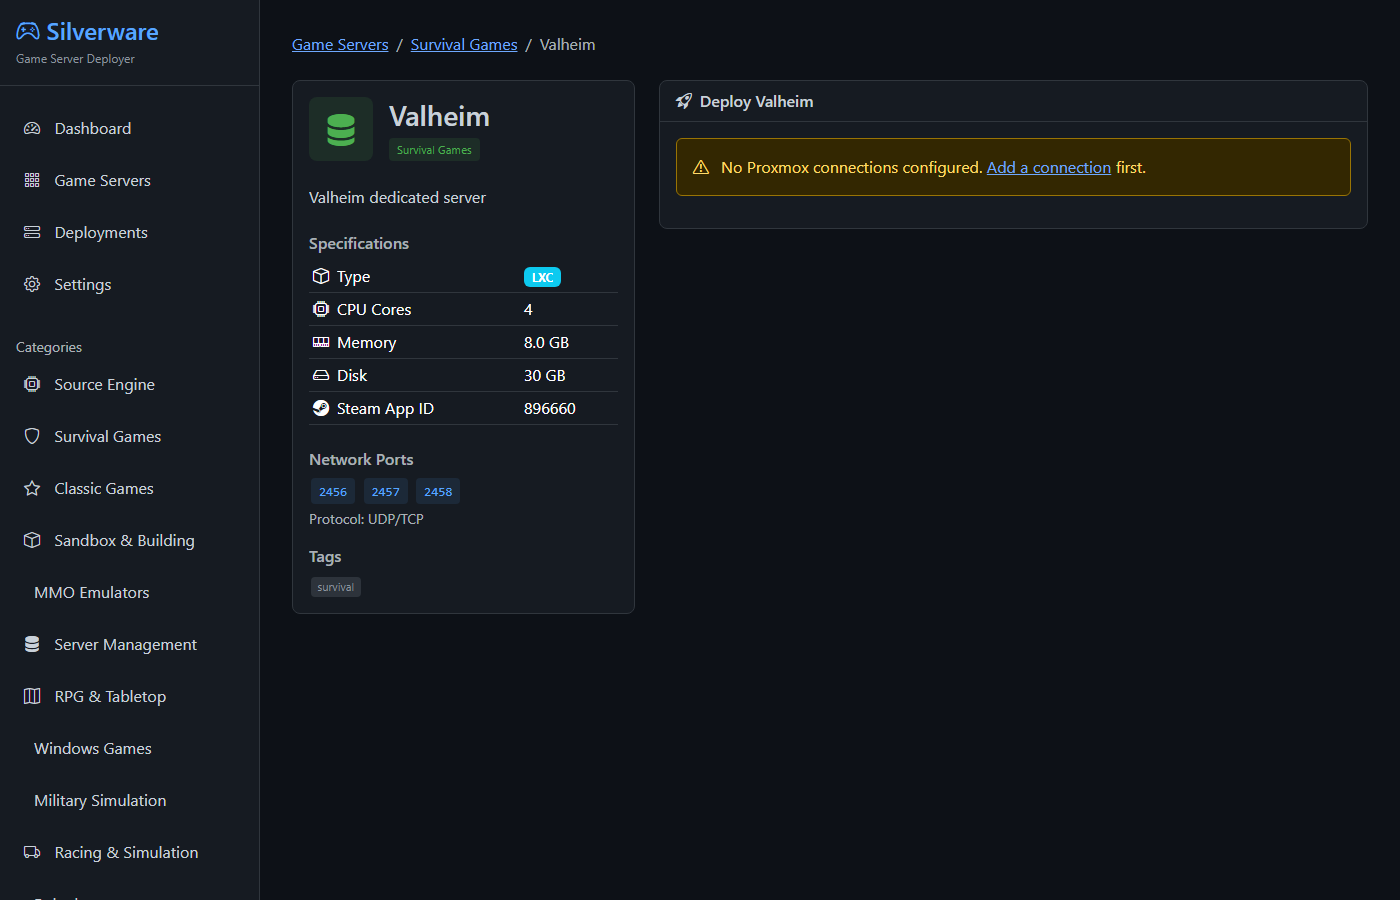
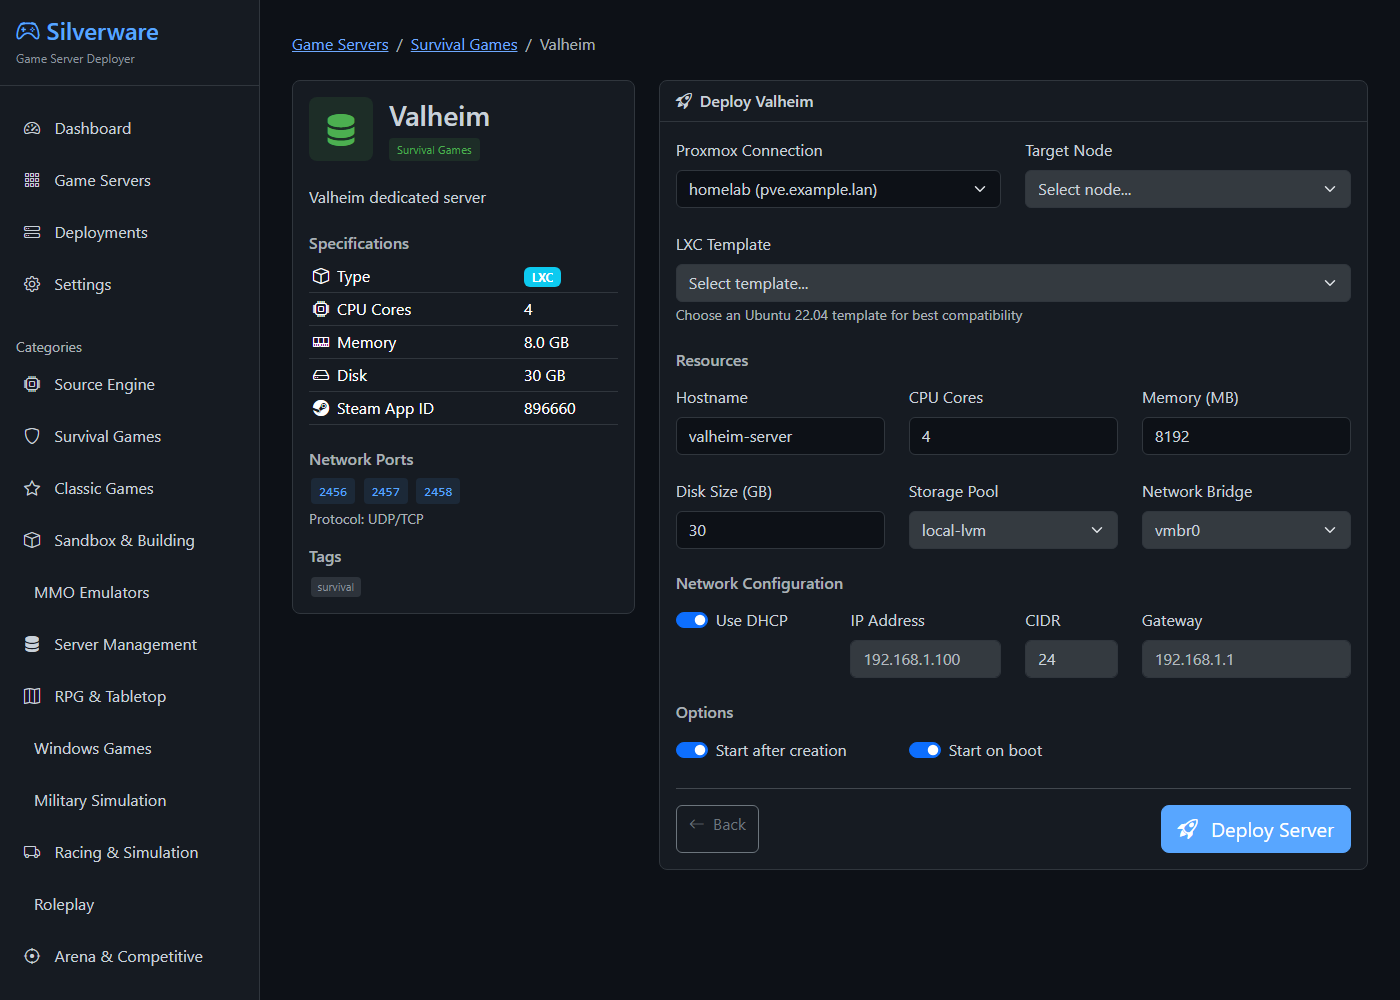
Slim the README and move the long setup guide to docs
The README is now a front page: what it is, status, four screenshots,
a short quick start and a short step-by-step, and a table of docs.
The full setup guide (expected output, usual mistakes, first deploy,
single-host and Terraform routes) moves to docs/getting-started.md and
the curl examples to docs/api.md. Adds a settings screenshot and
replaces the deploy screenshot with the filled-in deploy form.

diff --git a/README.md b/README.md
@@ -5,141 +5,73 @@ Terraform/Packer templates for running the same servers without it.
 
 ## Status
 
-**v0.1.0, alpha.** The web deployer's catalog lists 217 servers. 72 of them have an install script, so
-the deployer creates the container *and* installs the game. The other 145 get a container sized for the
-game and you install the game yourself. Every catalog entry deploys as an LXC container; VM deployment
-exists in the code but no catalog entry uses it yet. See [docs/games.md](docs/games.md) for which is which.
-
-The web UI has **no login**. Run it on a trusted network only; see [SECURITY.md](SECURITY.md).
+**v0.1.0, alpha.** 217 games in the catalog; 72 install themselves after deploy, the rest get a
+container sized for the game ([full list](docs/games.md)). LXC only for now. The web UI has **no
+login**, so keep it on a trusted network ([SECURITY.md](SECURITY.md)).
 
 ## Screenshots
 
-| Dashboard | Deploying a server |
+| Dashboard | Game catalog |
 |---|---|
-| ![Dashboard](docs/screenshots/dashboard.png) | ![Deploy page](docs/screenshots/deploy.png) |
-
-![Game catalog](docs/screenshots/servers.png)
+| ![Dashboard](docs/screenshots/dashboard.png) | ![Game catalog](docs/screenshots/servers.png) |
+| **Deploying a server** | **Proxmox connections** |
+| ![Deploy form](docs/screenshots/deploy.png) | ![Settings](docs/screenshots/settings.png) |
 
 ## Getting Started
 
-You need a Proxmox VE 7 or 8 host that you can reach on port 8006 (API) and port 22 (SSH; the deployer
-runs the install script inside the container through `pct exec`). You also need an LXC template on that
-host, for example Debian 12 or Ubuntu 22.04 (download it in the Proxmox UI: *local → CT Templates →
-Templates*).
+You need a Proxmox VE 7 or 8 host reachable on ports 8006 and 22, with an LXC template downloaded.
 
-### Quick start (Docker)
+**Quick start (Docker):**
 
-1. Install [Docker Desktop](https://www.docker.com/products/docker-desktop) (Windows/macOS) or Docker
-   Engine (Linux), and start it.
-2. Download this repo ([zip](https://github.com/sp00nznet/gameservers/archive/refs/heads/main.zip)) and
-   unzip it.
-3. Start the deployer:
-   - **Windows:** double-click `proxmox-deployer\start.bat`.
-   - **Linux/macOS:** run `./proxmox-deployer/start.sh docker`.
-4. Open <http://localhost:5555>. You should see the dashboard above, with "217 Available Servers".
+1. Install and start [Docker Desktop](https://www.docker.com/products/docker-desktop).
+2. Download the [zip](https://github.com/sp00nznet/gameservers/archive/refs/heads/main.zip) and unzip it.
+3. Double-click `proxmox-deployer\start.bat` (Linux/macOS: `./proxmox-deployer/start.sh docker`).
+4. Open <http://localhost:5555>. The dashboard shows "217 Available Servers".
 
-The first start builds the image, which takes a minute or two. To stop it, run `stop.bat` or
-`docker compose down` in `proxmox-deployer/`.
-
-### Step by step (Python)
-
-Prerequisites: Python 3.10 or newer (the Docker image uses 3.11; the tests run on 3.13).
+**Step by step (Python 3.10+):**
 
 ```bash
 git clone https://github.com/sp00nznet/gameservers.git
 cd gameservers/proxmox-deployer
-python3 -m venv venv
-source venv/bin/activate          # Windows: venv\Scripts\activate
+python3 -m venv venv && source venv/bin/activate   # Windows: venv\Scripts\activate
 pip install -r requirements.txt
-python run.py
+python run.py                                      # → Running on http://127.0.0.1:5555
 ```
 
-Expected output:
-
-```
- * Serving Flask app 'app'
- * Debug mode: off
-WARNING: This is a development server. Do not use it in a production deployment. Use a production WSGI server instead.
- * Running on all addresses (0.0.0.0)
- * Running on http://127.0.0.1:5555
- * Running on http://<your LAN IP>:5555
-Press CTRL+C to quit
-```
-
-It listens on every interface so other machines on your network can reach it. Set `FLASK_DEBUG=1`
-for auto-reload and the debugger while developing (`./start.sh dev` does that).
-
-Things that usually go wrong:
-- **Windows: `python` opens the Microsoft Store.** Use `py` instead of `python3`, or turn off the
-  alias in *Settings → Apps → Advanced app settings → App execution aliases*.
-- **`ModuleNotFoundError: No module named 'flask_sqlalchemy'`.** The venv isn't active. Run the
-  `activate` line again in the same window.
-
-### First deploy
-
-1. **Settings → Add Connection.** Enter the Proxmox host, port `8006`, user `root@pam` and its
-   password. Provisioning needs the password because it logs in over SSH; an API token can create the
-   container but can't run the install script.
-2. **Test** the connection. It should report your Proxmox version.
-3. **Game Servers → pick a game → Deploy.** Choose the node, storage, bridge and LXC template, then
-   deploy. The deployer creates the container, starts it, and runs the install script if there is one.
-   That can take several minutes for large Steam downloads.
-4. **Deployments** shows the result. A failed install shows as `provision_failed` with the error; you
-   can re-run the install with `POST /api/deployments/<id>/provision` (see [docs/api.md](docs/api.md)).
+Then add your Proxmox host under **Settings** and deploy a game. The full guide covers expected
+output, common mistakes, the first deploy, and running without the web app:
+**[docs/getting-started.md](docs/getting-started.md)**.
 
 ## Usage
 
-Everything in the UI is also a JSON API (full list in [docs/api.md](docs/api.md)):
+Everything in the UI is also a JSON API, e.g. `curl localhost:5555/api/stats`.
 
-```bash
-curl localhost:5555/api/stats
-curl "localhost:5555/api/servers?search=valheim"
-curl -X POST localhost:5555/api/deploy -H 'Content-Type: application/json' \
-  -d '{"connection_id": 1, "server_key": "valheim", "node": "pve",
-       "template": "local:vztmpl/debian-12-standard_12.7-1_amd64.tar.zst"}'
-```
-
-### Without the web deployer
-
-- **Single Linux host:** `sudo ./setup.sh` opens a menu that installs one of the games with its own
-  folder here (`teamfortress2/`, `projectzomboid/`, `azerothcore/`, ...) as a systemd service.
-- **Terraform/Packer:** VM templates and per-game-type VM groups in `infrastructure/`; see
-  [infrastructure/README.md](infrastructure/README.md).
-
-### Docs
-
-| Topic | File |
+| Topic | Doc |
 |---|---|
-| How the pieces fit | [docs/architecture.md](docs/architecture.md) |
-| Running, upgrading, backing up the deployer | [docs/running.md](docs/running.md) |
-| REST API | [docs/api.md](docs/api.md) |
-| Database tables | [docs/data-model.md](docs/data-model.md) |
-| Every game, its ports and whether it auto-installs | [docs/games.md](docs/games.md) |
-| Per-game settings | [docs/game-configuration.md](docs/game-configuration.md) |
-| Ports to open | [docs/firewall.md](docs/firewall.md) |
-| Troubleshooting | [docs/troubleshooting.md](docs/troubleshooting.md) |
+| Setup, first deploy, single-host scripts, Terraform | [getting-started.md](docs/getting-started.md) |
+| Running, upgrading, backing up | [running.md](docs/running.md) |
+| REST API with examples | [api.md](docs/api.md) |
+| Every game and its ports | [games.md](docs/games.md) |
+| Per-game settings | [game-configuration.md](docs/game-configuration.md) |
+| Firewall ports | [firewall.md](docs/firewall.md) |
+| Troubleshooting | [troubleshooting.md](docs/troubleshooting.md) |
+| How it's built | [architecture.md](docs/architecture.md), [data-model.md](docs/data-model.md) |
 
 ## Building from source
 
-There is nothing to compile. To build the Docker image and run the tests:
+Nothing to compile. Build the image and run the tests (no Proxmox needed; CI runs the same):
 
 ```bash
 cd proxmox-deployer
 docker build -t silverware-deployer .
-pip install -r requirements.txt
 python -m unittest discover tests
 ```
 
-The tests render every page and run a deploy against a mocked Proxmox client, so they need no Proxmox
-host. CI runs them on every push and pull request.
-
 ## Contributors
 
-See [CONTRIBUTORS.md](CONTRIBUTORS.md). Contributions are welcome; read
-[CONTRIBUTING.md](CONTRIBUTING.md) first.
+See [CONTRIBUTORS.md](CONTRIBUTORS.md) and [CONTRIBUTING.md](CONTRIBUTING.md).
 
 ## License
 
-MIT, see [LICENSE](LICENSE). The game servers this installs are the property of their publishers and
-are downloaded from their official sources (SteamCMD, LinuxGSM, Docker Hub) at install time; nothing
-from them is in this repo.
+MIT, see [LICENSE](LICENSE). Game servers are downloaded from their official sources at install time;
+none of their files are in this repo.

diff --git a/docs/getting-started.md b/docs/getting-started.md
@@ -1,0 +1,75 @@
+# Getting started
+
+The full version of the README's Getting Started section.
+
+## Prerequisites
+
+You need a Proxmox VE 7 or 8 host that you can reach on port 8006 (API) and port 22 (SSH; the deployer
+runs the install script inside the container through `pct exec`). You also need an LXC template on that
+host, for example Debian 12 or Ubuntu 22.04 (download it in the Proxmox UI: *local → CT Templates →
+Templates*).
+
+## Quick start (Docker)
+
+1. Install [Docker Desktop](https://www.docker.com/products/docker-desktop) (Windows/macOS) or Docker
+   Engine (Linux), and start it.
+2. Download the [zip](https://github.com/sp00nznet/gameservers/archive/refs/heads/main.zip) and unzip it.
+3. **Windows:** double-click `proxmox-deployer\start.bat`. **Linux/macOS:** `./proxmox-deployer/start.sh docker`.
+4. Open <http://localhost:5555>.
+
+The first start builds the image, which takes a minute or two. To stop it, run `stop.bat` or
+`docker compose down` in `proxmox-deployer/`.
+
+## Step by step (Python)
+
+Prerequisites: Python 3.10 or newer (the Docker image uses 3.11; the tests run on 3.13).
+
+```bash
+git clone https://github.com/sp00nznet/gameservers.git
+cd gameservers/proxmox-deployer
+python3 -m venv venv
+source venv/bin/activate          # Windows: venv\Scripts\activate
+pip install -r requirements.txt
+python run.py
+```
+
+Expected output:
+
+```
+ * Serving Flask app 'app'
+ * Debug mode: off
+WARNING: This is a development server. Do not use it in a production deployment. Use a production WSGI server instead.
+ * Running on all addresses (0.0.0.0)
+ * Running on http://127.0.0.1:5555
+ * Running on http://<your LAN IP>:5555
+Press CTRL+C to quit
+```
+
+It listens on every interface so other machines on your network can reach it. Set `FLASK_DEBUG=1`
+for auto-reload and the debugger while developing (`./start.sh dev` does that).
+
+Things that usually go wrong:
+- **Windows: `python` opens the Microsoft Store.** Use `py` instead of `python3`, or turn off the
+  alias in *Settings → Apps → Advanced app settings → App execution aliases*.
+- **`ModuleNotFoundError: No module named 'flask_sqlalchemy'`.** The venv isn't active. Run the
+  `activate` line again in the same window.
+
+## First deploy
+
+1. **Settings → Add Connection.** Enter the Proxmox host, port `8006`, user `root@pam` and its
+   password. Provisioning needs the password because it logs in over SSH; an API token can create the
+   container but can't run the install script.
+2. **Test** the connection. It should report your Proxmox version.
+3. **Game Servers → pick a game → Deploy.** Choose the node, storage, bridge and LXC template, then
+   deploy. The deployer creates the container, starts it, and runs the install script if there is one.
+   That can take several minutes for large Steam downloads.
+4. **Deployments** shows the result. A failed install shows as `provision_failed` with the error; you
+   can re-run the install with `POST /api/deployments/<id>/provision` (see [docs/api.md](api.md)).
+
+## Without the web deployer
+
+- **Single Linux host:** `sudo ./setup.sh` opens a menu that installs one of the games with its own
+  folder here (`teamfortress2/`, `projectzomboid/`, `azerothcore/`, ...) as a systemd service.
+- **Terraform/Packer:** VM templates and per-game-type VM groups in `infrastructure/`; see
+  [infrastructure/README.md](../infrastructure/README.md).
+

diff --git a/docs/api.md b/docs/api.md
@@ -3,6 +3,15 @@
 Every endpoint in `proxmox-deployer/app/routes.py`. All bodies are JSON. There is no authentication
 (see `SECURITY.md`). Errors come back as `{"error": "<message>"}` with a 4xx or 5xx status.
 
+## Examples
+
+```bash
+curl localhost:5555/api/stats
+curl "localhost:5555/api/servers?search=valheim"
+curl -X POST localhost:5555/api/deploy -H 'Content-Type: application/json'   -d '{"connection_id": 1, "server_key": "valheim", "node": "pve",
+       "template": "local:vztmpl/debian-12-standard_12.7-1_amd64.tar.zst"}'
+```
+
 ## Pages
 
 | Path | Page |
